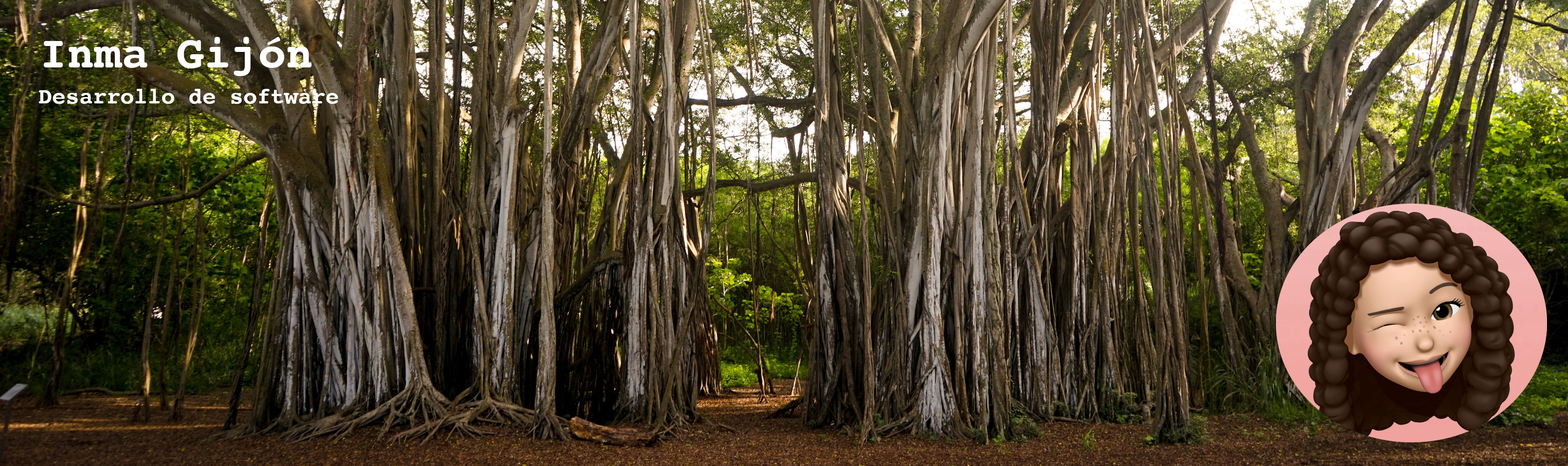
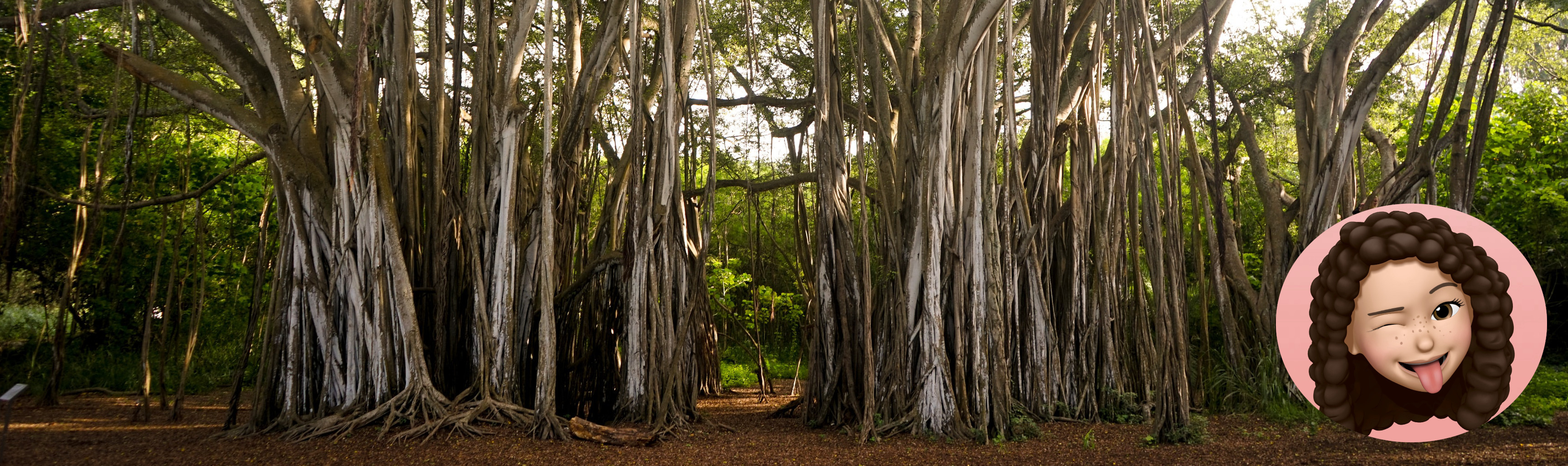
Updated readme

Changed region(s): [[0.0311, 0.1818, 0.2177, 0.2424], [0.0311, 0.0909, 0.2177, 0.1515]]

diff --git a/README.md b/README.md
@@ -1,11 +1,9 @@
-### Hi there 👋
-
-El contenido de los repositorios que aparecen ha sido desarrollado con objetivos docentes. Puedes utilizarlo y si tienes dudas ponerte en contacto conmigo.
-
 <p align="center">
   <a href="https://igijon.netlify.app/" target="_blank"><img src="./images/banner.jpeg" 
-  width='600px' borderRadius='1rem' boxShadow = '0 5px 18px rgba(0,0,0,0.3)'></a>
+   borderRadius='1rem' boxShadow = '0 5px 18px rgba(0,0,0,0.3)'></a>
 </p>
+
+El contenido de los repositorios que aparecen ha sido desarrollado con objetivos docentes. Puedes utilizarlo y si tienes dudas ponerte en contacto conmigo.
 
 <h2 align="center">Contacto</h2>
 <p align="center">
@@ -14,7 +12,7 @@ El contenido de los repositorios que aparecen ha sido desarrollado con objetivos
     height="60">
     </a> &nbsp;&nbsp;
      <a href="https://www.youtube.com/channel/UCDC8YnQsB0eRoM-u_qq200w" target="_blank">
-        <img src="hhttps://cdn.icon-icons.com/icons2/195/PNG/256/YouTube_23392.png" 
+        <img src="https://cdn.icon-icons.com/icons2/195/PNG/256/YouTube_23392.png" 
     height="60">
     </a>  &nbsp;&nbsp;
     <a href="https://igijon.netlify.app/" target="_blank">
@@ -22,13 +20,6 @@ El contenido de los repositorios que aparecen ha sido desarrollado con objetivos
     height="60">
     </a>
    
-</p>
-
-
-<p align="center">
-  <a href="https://github-readme-stats.vercel.app/api/top-langs/?username=igijon&theme=vue&layout=compact">
-    <img src="https://github-readme-stats.vercel.app/api/top-langs/?username=igijon&theme=vue&layout=compact" />
-  </a> 
 </p>
 
 <p align="center"> 
